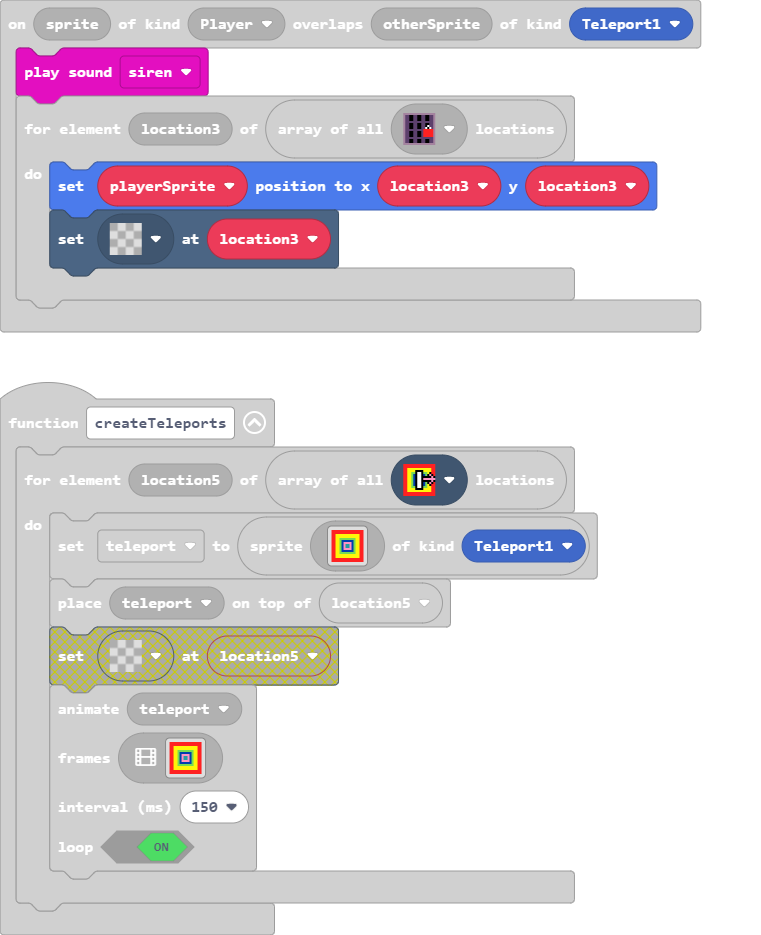
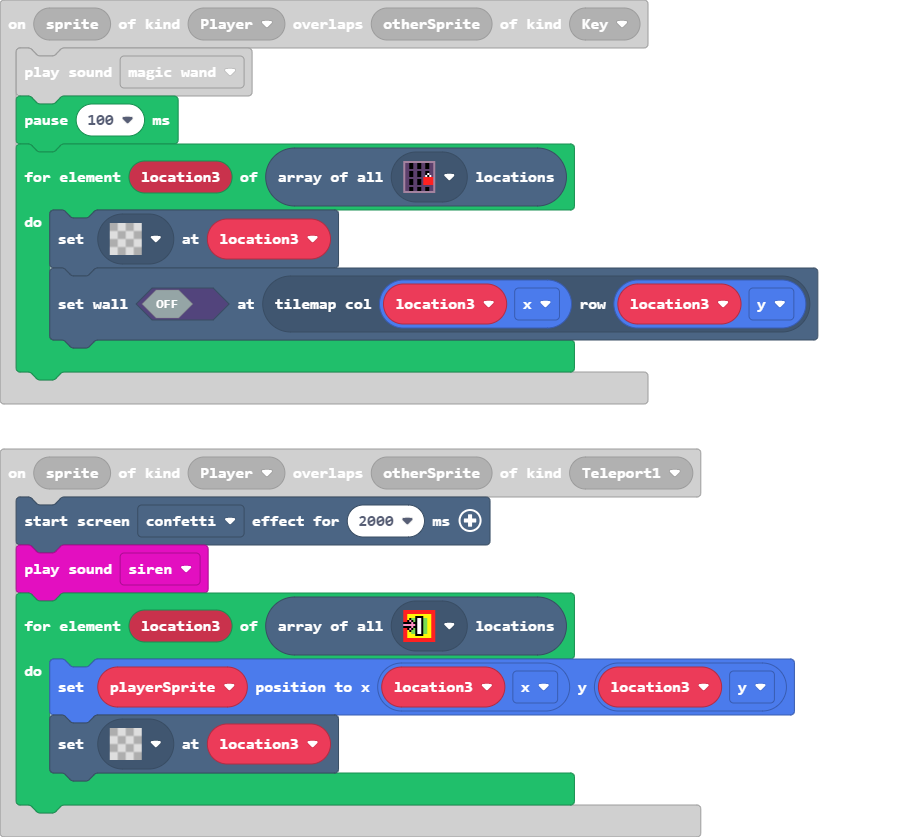
Update main.blocks, main.ts, tilemap.g.jres, tilemap.g.ts

diff --git a/tilemap.g.ts b/tilemap.g.ts
@@ -161,7 +161,7 @@ namespace myTiles {
 . . . . . . . . . . . . . . . . 
 `, [myTiles.transparency16], TileScale.Sixteen);
             case "level1":
[2 lines of base64/hex data omitted]
 .222222222222222222222222222222222222222222222222222222222222222222222222222222222222222222222222222
 ..22222222222222222222222222222222222222222222222222222222222........22222222222222222222222.......2
 ....22222222222222222222222222222222222222222222222222222222222..........2222222222222222222......22
@@ -173,18 +173,18 @@ namespace myTiles {
 .......2222222.................222222222222..........................222......22222...........222222
 22..............................22222222..............................22.......22222............2222
 2222....22222...................2222222.............222222222..........2........22222.............22
-22222..22.............2.2........222..............222.........22................222222.............2
-22222222.............22.22......................22222.222222222222..............22222222...........2
+22222..22.............2.2........222..............222..........2................222222.............2
+22222222.............22.22......................2222...22222222222..............22222222...........2
 22222222............222.222...................22222...222.....22222............222222222222........2
-22222222...........222...222..............222.......22.........2222............22222222222222......2
-22222222..........222.....222.........2222222222222.22..........222........222222222222222222222...2
+22222222...........222...222..............22.........2.........2222............22222222222222......2
+22222222..........222.....222.........222222222222..22..........222........222222222222222222222...2
 2222222222222222222222222222222......22222222222222.2............222...............................2
 2222222222222222222222222222222.....22222.....22222.2............2222..............................2
 22222222......22222222222222222.....22222........22.2.....222.....2222.............................2
 2222222........2222222222222222.....222..........22.2.....2222....2222...........................222
 222222..........2222...22222222.....222..........22.2......2222...2222.....................222222222
 22222............22.....2222222.....222...........2.2........222..2222....................2222222222
-2222....................2222222.....222....22222..............22222222.....22.............2222222222
+2222....................2222222.....222....22222..2.2.........22222222.....22.............2222222222
 22......................2222222.....222..2222222...............2222222.....22..............222222222
 2..........................2222.....22222222...2...............222222......222..............22222222
 2...........................222.....2222222..........22.......22222.......222222.............2222222
@@ -202,27 +202,27 @@ namespace myTiles {
 2...................................222222...............2222222222222222222222222222222222222....22
 2..................................2222222222.........2222222222222222222222222222222222222222....22
 2................................2222222222222222222222222222222222222222222222222222222222222....22
-2................................2222222222222222222222222222222222222222222222222222222222222......
-2...................................................................................................
-2...................................................................................................
-2...................................................................................................
-2.................................................................2222222222........................
-22222222222222222222222222222222222222222222222222222222............................................
-2..............................2222222222222222222222222............................................
-2.................................22222...2222222222222.............................................
-2...........................................2222222222..............................................
-2.............................................2222222...............................................
-22..................................................................................................
-22..................................................................................................
-22.....................................................2............................................
-22.................222222.............................22............................................
-222...............222222222..........................222............................................
-222.............2222222222222....................2222222............................................
-2222............22222222222222...................2222222............................................
-222222.......222222222222222222....2.............2222222............................................
-222222222.2222222222222222222222...2..........2222222222............................................
-22222222222222222222222222222222222222222222222222222222............................................
-`, [myTiles.transparency16,sprites.dungeon.hazardLava0,myTiles.tile8,myTiles.tile12,myTiles.tile13,myTiles.tile14,myTiles.tile15,sprites.swamp.swampTile4,sprites.swamp.swampTile5,sprites.swamp.swampTile9,myTiles.tile1,myTiles.tile3,myTiles.tile16,myTiles.tile21,myTiles.tile24,myTiles.tile25,myTiles.tile26,myTiles.tile28,myTiles.tile10,myTiles.tile23,myTiles.tile29,myTiles.tile32,myTiles.tile27,myTiles.tile33,myTiles.tile34,myTiles.tile35,myTiles.tile36,sprites.dungeon.floorDarkDiamond,sprites.dungeon.greenOuterNorth1,sprites.dungeon.greenOuterNorth0,sprites.dungeon.greenOuterNorthEast,sprites.dungeon.greenOuterNorth2,sprites.dungeon.purpleInnerNorthWest,sprites.dungeon.purpleInnerNorthEast,sprites.dungeon.purpleInnerSouthEast,sprites.dungeon.purpleInnerSouthWest,sprites.builtin.oceanSand11,sprites.builtin.oceanSand10,sprites.dungeon.floorDark5,myTiles.tile39,myTiles.tile37,myTiles.tile40,myTiles.tile41,myTiles.tile42,myTiles.tile38,myTiles.tile46,myTiles.tile44,myTiles.tile48,myTiles.tile55], TileScale.Sixteen);
+2................................2222222222222222222222222222222222222222222222222222222222222....22
+2..........................................................................2......................22
+2..........................................................................2......................22
+2..........................................................................2.....................222
+2.................................................................2222222222....................2222
+22222222222222222222222222222222222222222222222222222222.......................................22222
+2..............................2222222222222222222222222......................................222222
+2.................................22222...2222222222222.......................................222222
+2...........................................2222222222........................................222222
+2.............................................2222222.........................................222222
+22..............................................................................................2222
+22......................................................................................22222....222
+22.....................................................22222222222222.................2222222....222
+22.................222222.............................2222222222222222...............222222222...222
+222...............222222222..........................222222222222222222222..........2222222222....22
+222.............2222222222222....................22222222222222222222222222........22222222222....22
+2222............22222222222222...................222222222222222222222222222222..2222222222222.....2
+222222.......222222222222222222....2.............2222222222222222222222222222222222222222222222....2
+222222222.2222222222222222222222...2..........22222222222222222222222222222222222222222222222222...2
+2222222222222222222222222222222222222222222222222222222222222222222222222222222222222222222222222222
+`, [myTiles.transparency16,sprites.dungeon.hazardLava0,myTiles.tile8,myTiles.tile12,myTiles.tile13,myTiles.tile14,myTiles.tile15,sprites.swamp.swampTile4,sprites.swamp.swampTile5,sprites.swamp.swampTile9,myTiles.tile1,myTiles.tile3,myTiles.tile16,myTiles.tile21,myTiles.tile24,myTiles.tile25,myTiles.tile26,myTiles.tile28,myTiles.tile10,myTiles.tile23,myTiles.tile29,myTiles.tile32,myTiles.tile27,myTiles.tile33,myTiles.tile34,myTiles.tile35,myTiles.tile36,sprites.dungeon.floorDarkDiamond,sprites.dungeon.greenOuterNorth1,sprites.dungeon.greenOuterNorth0,sprites.dungeon.greenOuterNorthEast,sprites.dungeon.greenOuterNorth2,sprites.dungeon.purpleInnerNorthWest,sprites.dungeon.purpleInnerNorthEast,sprites.dungeon.purpleInnerSouthEast,sprites.dungeon.purpleInnerSouthWest,sprites.builtin.oceanSand11,sprites.builtin.oceanSand10,sprites.dungeon.floorDark5,myTiles.tile39,myTiles.tile37,myTiles.tile40,myTiles.tile41,myTiles.tile42,myTiles.tile38,myTiles.tile46,myTiles.tile44,myTiles.tile48,myTiles.tile55,sprites.swamp.swampTile1], TileScale.Sixteen);
         }
         return null;
     })

diff --git a/main.ts b/main.ts
@@ -14,9 +14,10 @@ sprites.onOverlap(SpriteKind.Player, SpriteKind.Deadly, function (sprite, otherS
     scene.cameraShake(4, 500)
 })
 sprites.onOverlap(SpriteKind.Player, SpriteKind.Teleport1, function (sprite, otherSprite) {
+    effects.confetti.startScreenEffect(2000)
     music.siren.play()
-    for (let location3 of tiles.getTilesByType(assets.tile`myTile29`)) {
-        playerSprite.setPosition(location3, location3)
+    for (let location3 of tiles.getTilesByType(assets.tile`myTile52`)) {
+        playerSprite.setPosition(location3.x, location3.y)
         tiles.setTileAt(location3, assets.tile`transparency16`)
     }
 })
@@ -87,8 +88,10 @@ info.onCountdownEnd(function () {
 })
 sprites.onOverlap(SpriteKind.Player, SpriteKind.Key, function (sprite, otherSprite) {
     music.magicWand.play()
+    pause(100)
     for (let location3 of tiles.getTilesByType(assets.tile`myTile29`)) {
         tiles.setTileAt(location3, assets.tile`transparency16`)
+        tiles.setWallAt(tiles.getTileLocation(location3.x, location3.y), false)
     }
 })
 statusbars.onZero(StatusBarKind.EnemyHealth, function (status) {
